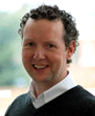
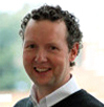
New team member

diff --git a/the_team.html b/the_team.html
@@ -497,7 +497,7 @@
           <div class="biog_container">
             <div id="biog" class="biog">
                <div class="biog_img">
-                <span class="rounded-img" style="background: url(/gps/img/sdb3.jpg); no-repeat left top; width: 100px; height: 100px;">
+                <span class="rounded-img" style="background: url(/gps/img/sdb.jpg); no-repeat right top; width: 100px; height: 100px;">
                   <!-- <img src="/gps/img/sdb.jpg"  /> -->
                 </span> 
               </div>
